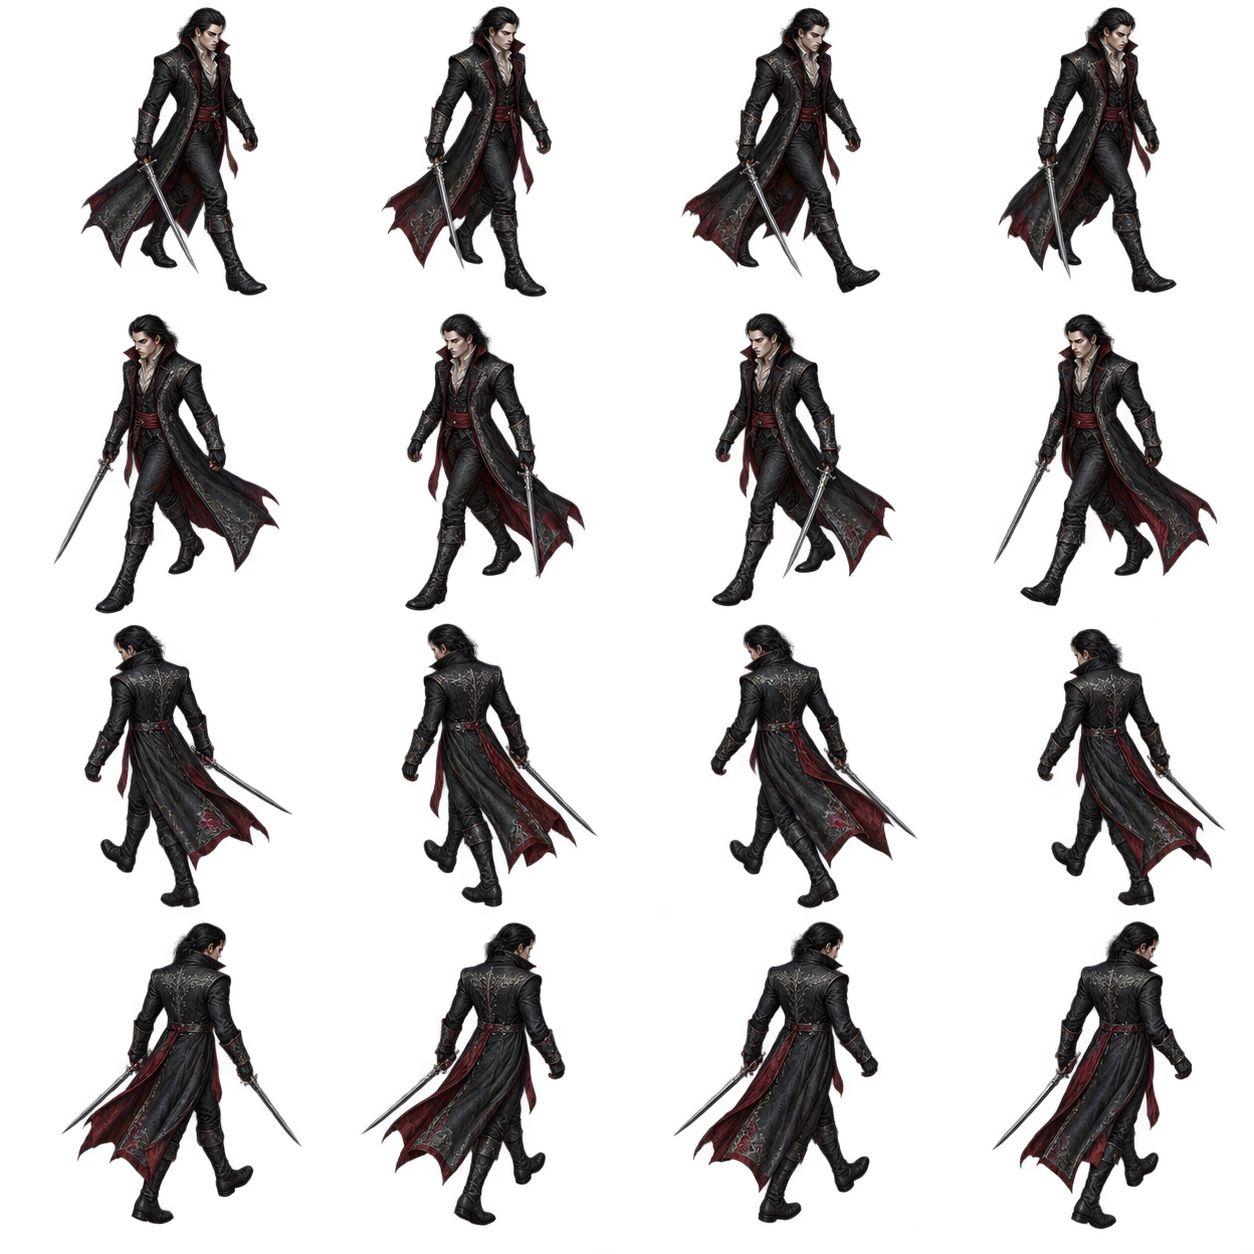
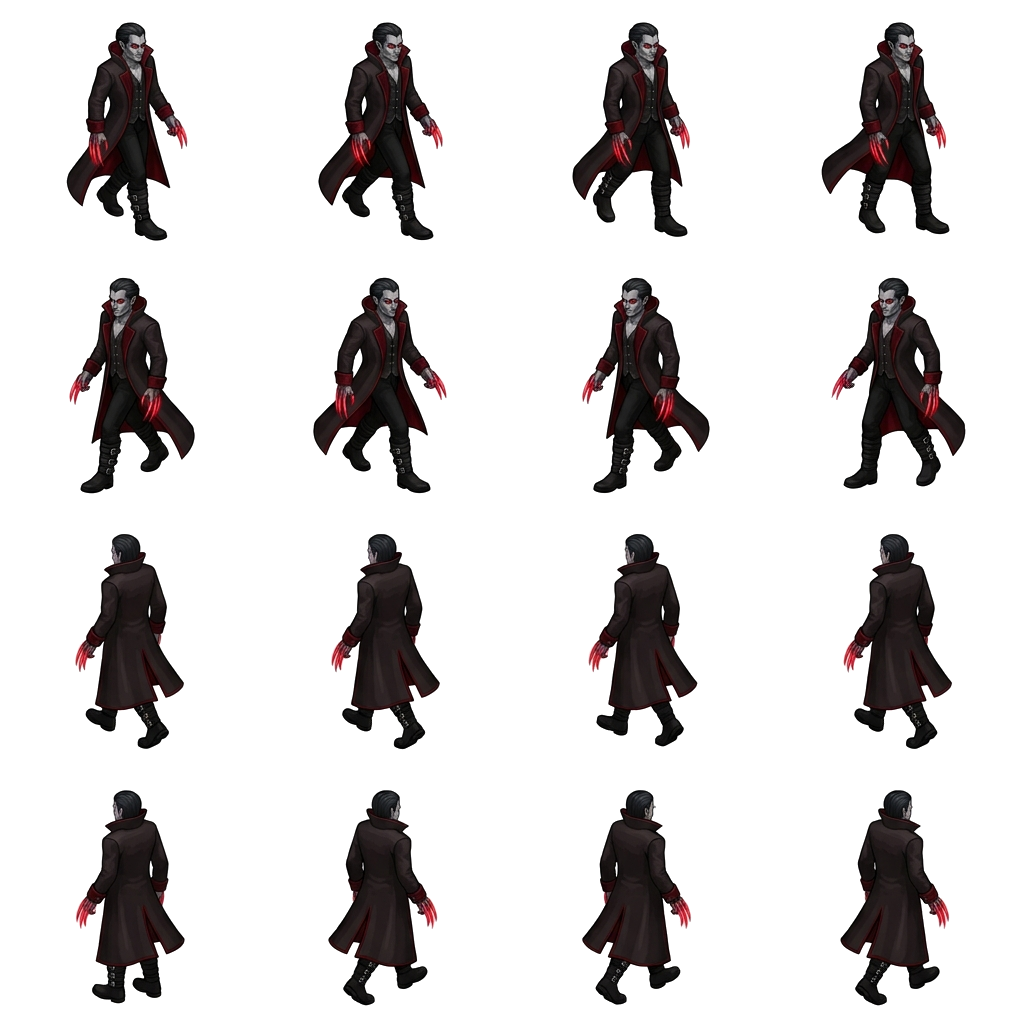
Replace vampire sprite sheet with Darkeden-style Quaternius walk cycle frames

diff --git a/public/sprite-manifest.js b/public/sprite-manifest.js
@@ -1,2 +1,2 @@
 /* Reviewed source rectangles, in original PNG pixels. Character frames add [anchorX]: torso centre used so frames do not sway; "ref" is the sheet-wide frame height for a constant scale. */
-const FIELD_SPRITES = {"brute":{"width":1254,"height":1254,"frames":[[86,18,182,283],[387,18,192,276],[709,18,181,280],[1013,18,177,282],[64,321,190,286],[371,323,188,284],[684,323,189,286],[1006,323,184,290],[69,633,191,285],[391,634,185,282],[697,630,201,290],[1014,634,177,284],[68,942,199,286],[386,942,188,286],[693,941,200,287],[1013,941,187,287]]},"dead-tree":{"width":1024,"height":1536,"frames":[[43,11,954,1499]]},"earth":{"width":1254,"height":1254,"frames":[[0,0,1254,1254]]},"ghoul":{"width":1254,"height":1254,"frames":[[106,9,169,289],[402,12,163,284],[721,10,176,285],[1025,13,155,284],[98,315,145,285],[411,312,145,291],[726,317,179,280],[1036,316,159,280],[101,623,169,300],[405,625,155,294],[708,626,180,296],[1013,629,177,290],[97,939,171,298],[405,937,171,297],[716,935,175,303],[1028,938,159,286]]},"human":{"width":1254,"height":1254,"frames":[[72,8,180,300,107.3],[378,10,184,299,104.3],[679,8,189,299,108.6],[992,9,178,300,104.6],[100,319,188,301,78.5],[406,320,183,302,74.9],[709,321,191,299,80.0],[1026,321,179,299,70.1],[85,629,199,297,76.3],[401,631,190,298,75.1],[709,631,198,298,75.4],[1027,635,181,294,70.8],[95,935,196,301,77.0],[420,939,186,301,70.3],[725,937,198,301,75.7],[1037,937,182,296,71.4]],"ref":299},"pine":{"width":1024,"height":1536,"frames":[[64,19,918,1478]]},"props":{"width":1774,"height":887,"frames":[[84,4,318,462],[442,50,489,419],[976,1,402,468],[1523,1,107,469],[21,471,410,365],[474,473,435,371],[949,491,446,363],[1395,541,370,293]]},"refuge":{"width":1254,"height":1254,"frames":[[38,11,1180,1209]]},"ruin":{"width":1536,"height":1024,"frames":[[214,5,1141,1012]]},"stone":{"width":1254,"height":1254,"frames":[[0,0,1254,1254]]},"vampire":{"width":1254,"height":1254,"frames":[[81,7,187,289,102.9],[381,6,171,292,99.1],[681,7,200,287,106.3],[998,7,179,287,95.8],[53,313,227,301,119.0],[405,313,180,298,76.6],[711,312,185,295,77.8],[993,313,225,293,113.3],[84,624,209,284,78.2],[401,623,197,285,73.7],[710,624,208,285,83.0],[1037,628,189,278,75.3],[61,922,241,303,118.5],[360,922,206,304,126.5],[673,921,206,303,123.3],[992,921,201,309,120.6]],"ref":292},"human-male":{"width":1024,"height":1024,"frames":[[53,8,152,244,88.5],[306,10,152,241,88.5],[554,8,153,245,89.5],[810,10,151,242,88.1],[79,262,156,243,64.2],[329,263,155,242,62.9],[580,262,158,243,64.2],[835,263,152,242,59.7],[68,517,160,238,62.8],[330,518,153,241,58.4],[578,517,161,239,62.6],[838,519,148,241,57.6],[76,768,161,241,63.8],[342,771,153,241,58.8],[592,769,161,242,62.0],[846,770,150,239,59.4]],"ref":241},"vampire-female":{"width":1024,"height":1024,"frames":[[69,6,149,236,84.5],[313,6,138,238,80.9],[565,5,153,236,81.1],[820,6,141,234,77.2],[41,257,182,255,97.2],[332,256,143,256,62.0],[583,256,144,256,62.4],[807,256,180,241,94.3],[71,512,170,256,66.5],[327,512,158,256,65.6],[583,512,166,256,68.8],[848,513,156,255,64.9],[51,768,196,232,94.8],[297,768,166,233,97.9],[549,768,167,231,98.7],[813,768,162,234,93.5]],"ref":239}};
+const FIELD_SPRITES = {"brute":{"width":1254,"height":1254,"frames":[[86,18,182,283],[387,18,192,276],[709,18,181,280],[1013,18,177,282],[64,321,190,286],[371,323,188,284],[684,323,189,286],[1006,323,184,290],[69,633,191,285],[391,634,185,282],[697,630,201,290],[1014,634,177,284],[68,942,199,286],[386,942,188,286],[693,941,200,287],[1013,941,187,287]]},"dead-tree":{"width":1024,"height":1536,"frames":[[43,11,954,1499]]},"earth":{"width":1254,"height":1254,"frames":[[0,0,1254,1254]]},"ghoul":{"width":1254,"height":1254,"frames":[[106,9,169,289],[402,12,163,284],[721,10,176,285],[1025,13,155,284],[98,315,145,285],[411,312,145,291],[726,317,179,280],[1036,316,159,280],[101,623,169,300],[405,625,155,294],[708,626,180,296],[1013,629,177,290],[97,939,171,298],[405,937,171,297],[716,935,175,303],[1028,938,159,286]]},"human":{"width":1254,"height":1254,"frames":[[72,8,180,300,107.3],[378,10,184,299,104.3],[679,8,189,299,108.6],[992,9,178,300,104.6],[100,319,188,301,78.5],[406,320,183,302,74.9],[709,321,191,299,80.0],[1026,321,179,299,70.1],[85,629,199,297,76.3],[401,631,190,298,75.1],[709,631,198,298,75.4],[1027,635,181,294,70.8],[95,935,196,301,77.0],[420,939,186,301,70.3],[725,937,198,301,75.7],[1037,937,182,296,71.4]],"ref":299},"pine":{"width":1024,"height":1536,"frames":[[64,19,918,1478]]},"props":{"width":1774,"height":887,"frames":[[84,4,318,462],[442,50,489,419],[976,1,402,468],[1523,1,107,469],[21,471,410,365],[474,473,435,371],[949,491,446,363],[1395,541,370,293]]},"refuge":{"width":1254,"height":1254,"frames":[[38,11,1180,1209]]},"ruin":{"width":1536,"height":1024,"frames":[[214,5,1141,1012]]},"stone":{"width":1254,"height":1254,"frames":[[0,0,1254,1254]]},"vampire":{"width":1024,"height":1024,"frames":[[66,22,122,219,41.2],[318,22,125,219,40.2],[572,22,119,215,38.4],[821,22,129,213,39.1],[69,277,126,217,46.1],[313,277,134,217,44.3],[582,277,128,217,46.7],[831,277,135,212,52.1],[75,534,109,215,38.4],[331,534,109,216,38.1],[588,533,110,214,38.6],[843,534,109,215,38.1],[75,790,110,214,39.0],[328,790,110,216,39.1],[582,790,110,215,38.5],[840,790,110,216,39.1]],"ref":220},"human-male":{"width":1024,"height":1024,"frames":[[53,8,152,244,88.5],[306,10,152,241,88.5],[554,8,153,245,89.5],[810,10,151,242,88.1],[79,262,156,243,64.2],[329,263,155,242,62.9],[580,262,158,243,64.2],[835,263,152,242,59.7],[68,517,160,238,62.8],[330,518,153,241,58.4],[578,517,161,239,62.6],[838,519,148,241,57.6],[76,768,161,241,63.8],[342,771,153,241,58.8],[592,769,161,242,62.0],[846,770,150,239,59.4]],"ref":241},"vampire-female":{"width":1024,"height":1024,"frames":[[69,6,149,236,84.5],[313,6,138,238,80.9],[565,5,153,236,81.1],[820,6,141,234,77.2],[41,257,182,255,97.2],[332,256,143,256,62.0],[583,256,144,256,62.4],[807,256,180,241,94.3],[71,512,170,256,66.5],[327,512,158,256,65.6],[583,512,166,256,68.8],[848,513,156,255,64.9],[51,768,196,232,94.8],[297,768,166,233,97.9],[549,768,167,231,98.7],[813,768,162,234,93.5]],"ref":239}};
